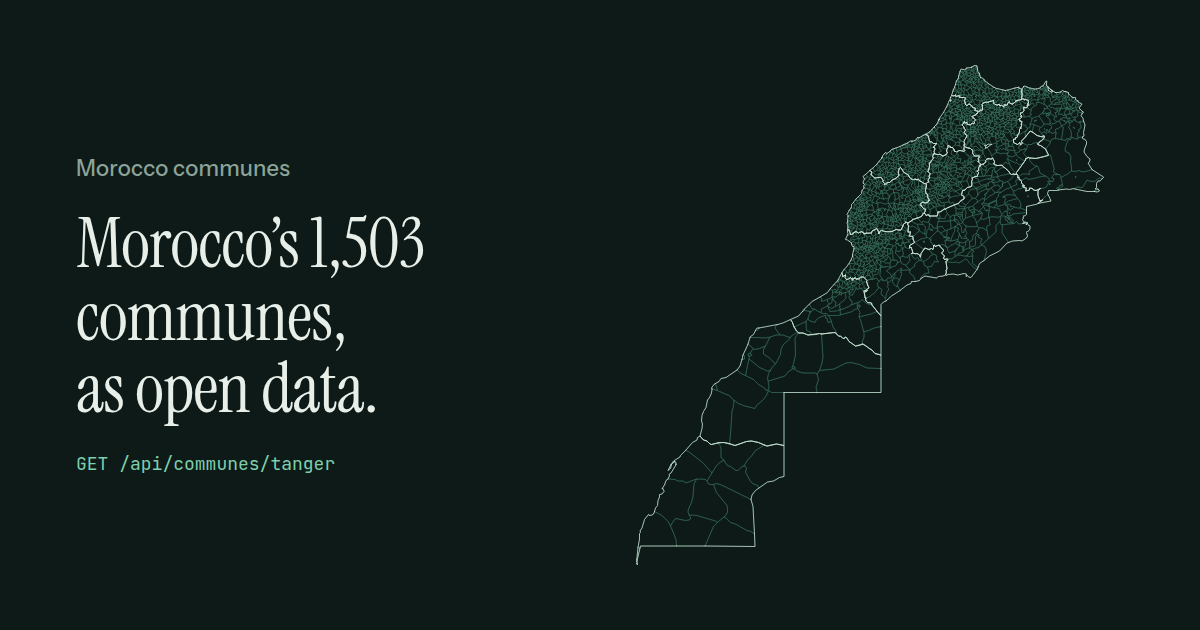
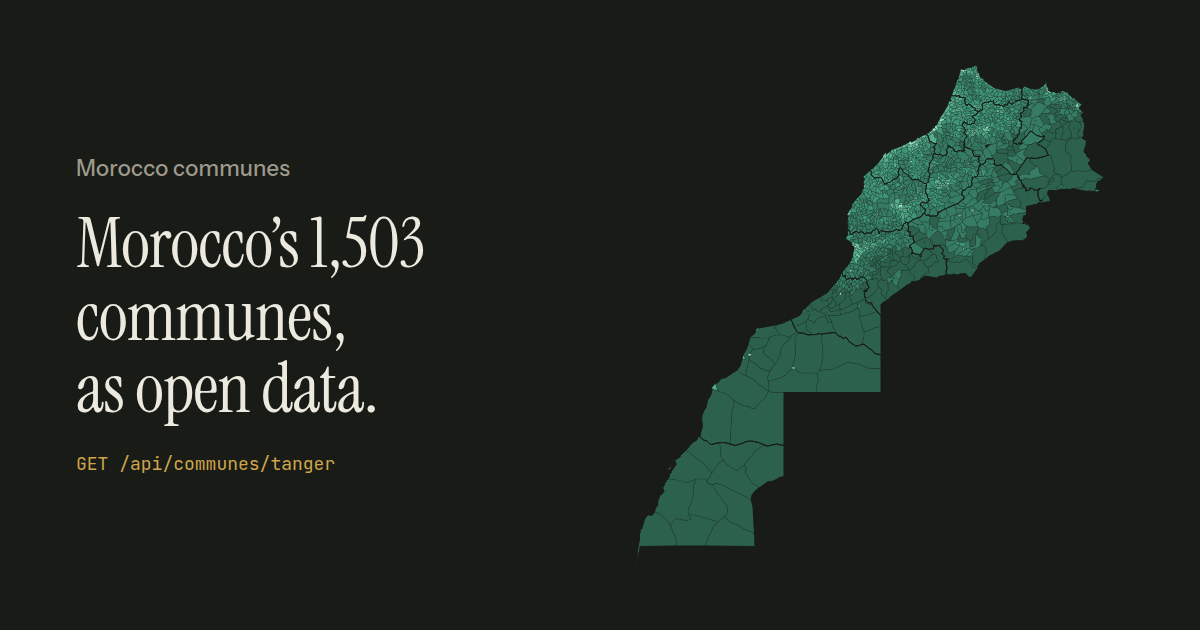
link preview image from the map

Changed region(s): [[0.5242, 0.0905, 0.925, 0.8746], [0.0617, 0.7238, 0.2775, 0.754]]

diff --git a/site/scripts/og.ts b/site/scripts/og.ts
@@ -10,10 +10,11 @@
  */
 import { execFileSync } from "node:child_process";
 import { existsSync, readdirSync } from "node:fs";
-import { mkdtemp, readFile, writeFile } from "node:fs/promises";
+import { mkdtemp, writeFile } from "node:fs/promises";
 import { homedir, tmpdir } from "node:os";
 import { join } from "node:path";
 import { ui } from "../src/i18n/ui.ts";
+import { markup, viewBox } from "../src/generated/map.ts";
 
 function findChrome(): string {
   if (process.env.CHROME && existsSync(process.env.CHROME)) return process.env.CHROME;
@@ -30,19 +31,25 @@ function findChrome(): string {
   throw new Error("no Chrome found; set CHROME=/path/to/chrome");
 }
 
-const svg = (await readFile("site/public/morocco.svg", "utf8")).replace(/<svg /, '<svg class="map" ');
+// The home map in the site's dark theme: density, bright where people are.
+const DARK_RAMP = ["#2c614e", "#367b63", "#3f9578", "#55af8f", "#6fc9a8", "#91e1c3"];
+const svg = `<svg class="map" viewBox="${viewBox}" xmlns="http://www.w3.org/2000/svg"><style>
+  .communes path { fill: #34362e; stroke: #191b16; stroke-width: 0.35; }
+  ${DARK_RAMP.map((c, i) => `.communes [data-d="${i}"] { fill: ${c}; }`).join("\n  ")}
+  .regions { fill: none; stroke: #191b16; stroke-width: 1.8; stroke-linejoin: round; }
+</style>${markup}</svg>`;
 const copy = ui.en;
 
 const html = `<!doctype html><html><head><meta charset="utf-8">
 <link rel="stylesheet" href="https://fonts.googleapis.com/css2?family=Instrument+Serif&family=Instrument+Sans:wght@400;500&family=JetBrains+Mono&display=block">
 <style>
   html, body { margin: 0; width: 1200px; height: 630px; overflow: hidden; }
-  body { background: #0d1a17; color: #e8efe9; display: grid; grid-template-columns: 1fr 500px;
+  body { background: #191b16; color: #ece9df; display: grid; grid-template-columns: 1fr 500px;
          align-items: center; padding: 0 64px 0 76px; box-sizing: border-box; }
   .words { display: flex; flex-direction: column; gap: 26px; }
-  .name { font: 500 22px "Instrument Sans", sans-serif; color: #8ba398; letter-spacing: 0.01em; }
+  .name { font: 500 22px "Instrument Sans", sans-serif; color: #9d9a8d; letter-spacing: 0.01em; }
   h1 { font: 400 70px/1.04 "Instrument Serif", serif; margin: 0; letter-spacing: -0.01em; text-wrap: balance; }
-  .path { font: 400 18px "JetBrains Mono", monospace; color: #7fcfae; }
+  .path { font: 400 18px "JetBrains Mono", monospace; color: #cfa64a; }
   .map { width: 500px; height: auto; display: block; }
 </style></head><body>
   <div class="words">

diff --git a/README.md b/README.md
@@ -143,7 +143,6 @@ reads `data/v1` once per build: ranks, the communes each one borders, matched on
 boundary points, and small maps drawn the same way as the home map.
 
 The charts are inline SVG and CSS, so they need no JavaScript and no charting library.
-`outline.ts` draws the older single-colour map that the link preview image uses.
 
 Arabic names are in the data and Arabic queries work; the interface is English and French.
 
